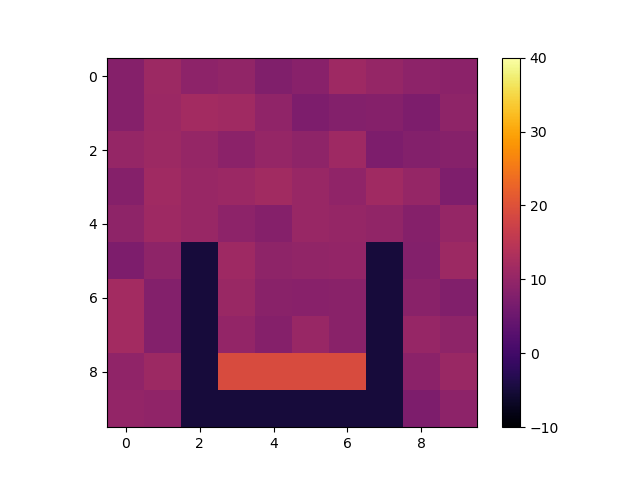
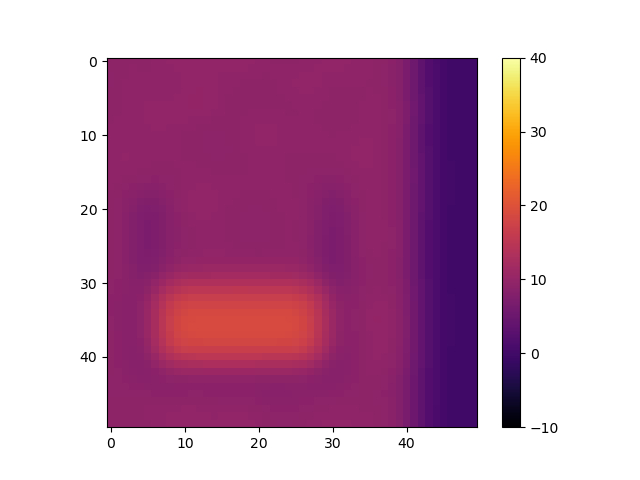
progress

diff --git a/physics.py b/physics.py
@@ -10,6 +10,8 @@ def plotter(filepath, raster, upper, lower):
     plt.close('all')
 
 def timestepper(t,timesteps, in_raster, container_temp, filling_height, fill_temp, diffusion_index, loss_over_time, diffusion_degree):
+    """ allows to set up initial system and also pass on raster to future steps"""
+
     raster = in_raster
 
     resX = in_raster.shape[0]
@@ -23,7 +25,6 @@ def timestepper(t,timesteps, in_raster, container_temp, filling_height, fill_tem
         filepath = "output/visualizationTest{}.png".format(t)
 
         if t == 0:
-            print("Initializing System...")
 
             # set up initial system state
             raster = environmental(resX,resY)
@@ -38,10 +39,11 @@ def timestepper(t,timesteps, in_raster, container_temp, filling_height, fill_tem
             plotter(filepath,raster,upper,lower)
 
         else:
-            print("reducing values")
+            print("Calculating diffusion...")
 
             # calculate temperature diffusion
-            raster = raster * 0.9
+            raster = diffusion(raster, resX, resY, diffusion_index, container_temp, loss_over_time, t, diffusion_degree)
+
 
             #save figure
             plotter(filepath,raster,upper,lower)
@@ -112,6 +114,8 @@ def addContainer(raster, container_temp):
     np.put(bottomedge_row, [range(container_bl[0], container_br[0]+1)],v=color_value)
     np.put(leftedge_col, [range(container_tl[1], bottomrow_index)], v=color_value)
     np.put(rightedge_col, [range(container_tr[1], bottomrow_index)], v=color_value)
+
+    print(raster)
 
     #ooutput container information to pass to other functions
     container = {'container_bl': container_bl,
@@ -195,8 +199,8 @@ def diffusion(in_raster, resX, resY, diffusion_index, container_temp, loss_over_
 
     #set up a temporary raster to allow for energy transfer and pad the array to account for external influence
     temporary_raster = np.zeros(shape=(resX,resY))
-    temporary_raster[1:-1, 1:-1] = 0
-    temporary_raster[-1] = container_temp
+    #temporary_raster[1:-1, 1:-1] = 0
+    #temporary_raster[-1] = container_temp
 
 
     #loop through and calculate energy transfer per cell
@@ -209,19 +213,18 @@ def diffusion(in_raster, resX, resY, diffusion_index, container_temp, loss_over_
         while x < resY:
 
             temporary_raster = decider_diffusion_temp(in_raster,temporary_raster,x,y, diffusion_index, diffusion_degree)
-            in_raster = decider_diffusion_in(in_raster,temporary_raster,x,y, diffusion_index, diffusion_degree)
 
 
             x+=1
         y+=1
 
     # pad again
-    temporary_raster[-1] = container_temp
+    #temporary_raster[-1] = container_temp
 
 
     # add in_raster to temporary raster to compute diffusion of energy
-    out_raster = np.add(in_raster, temporary_raster)
-    return out_raster * (1-loss_over_time)
+
+    return temporary_raster
 
 def decider_diffusion_temp(in_raster, temporary_raster, x, y, diffusion_index, diffusion_degree):
     '''decides from where to where diffusion is taking place, is executed on each pixel'''
@@ -247,26 +250,35 @@ def decider_diffusion_temp(in_raster, temporary_raster, x, y, diffusion_index, d
         y_temp = y + neighbour[1]
         neighs.append((x_temp,y_temp))
 
+
     #get how many are legal (within bounds)
     division = len(neighs)
+    diff = ((1-diffusion_index) * pixel) / division
 
     #diffuse
     for neigh in neighs:
         try:
             if neigh[1] < 0 or neigh[1] < 0:
+                "pixel outta bounds 1"
                 pass
             elif neigh[0] > res or neigh[0] > res:
+                "pixel outta bounds 2"
                 pass
 
             else:
                 try:
-                    temp_pixel = temporary_raster[neigh[0], neigh[1]]
-                    diff = (diffusion_index * pixel) / division
+                    #if index of target cell is in bounds, add diffusion value
                     temporary_raster[neigh[0], neigh[1]] += diff
+
+                    # subtract diffusion value from original raster
+                    in_raster[x,y] -= diff
+
                 except IndexError:
+                    print("pixel outta bounds 3")
                     pass
 
         except IndexError:
+            print("pixel outta bounds 4")
             pass
 
     return temporary_raster

diff --git a/visualizer.py b/visualizer.py
@@ -12,7 +12,7 @@ from convectionModel.physics import *
 
 
 # raster size and timesteps
-resX = 10
+resX = 50
 resY = resX
 timesteps = 10
 container_temp = -10
@@ -21,8 +21,8 @@ container_temp = -10
 pre_fill = True
 fill_temp = 40
 filling_height = 0.75
-diffusion_index = 0.5
-diffusion_degree = 2
+diffusion_index = 0.1
+diffusion_degree = 6
 loss_over_time = 0
 
 # set up list to convert output to gif
